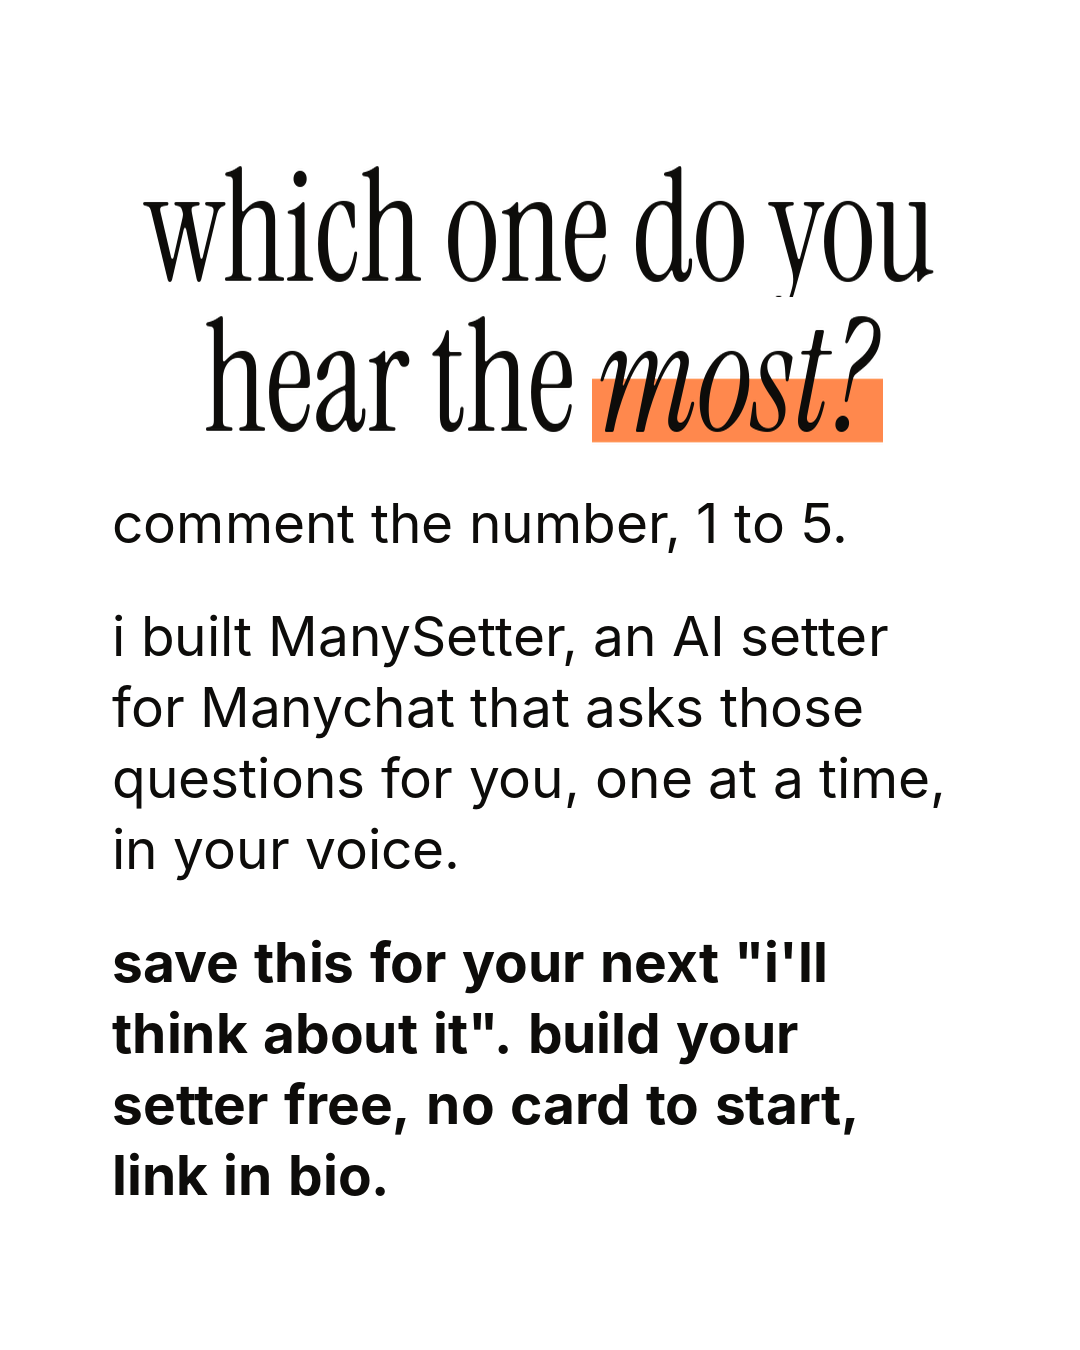
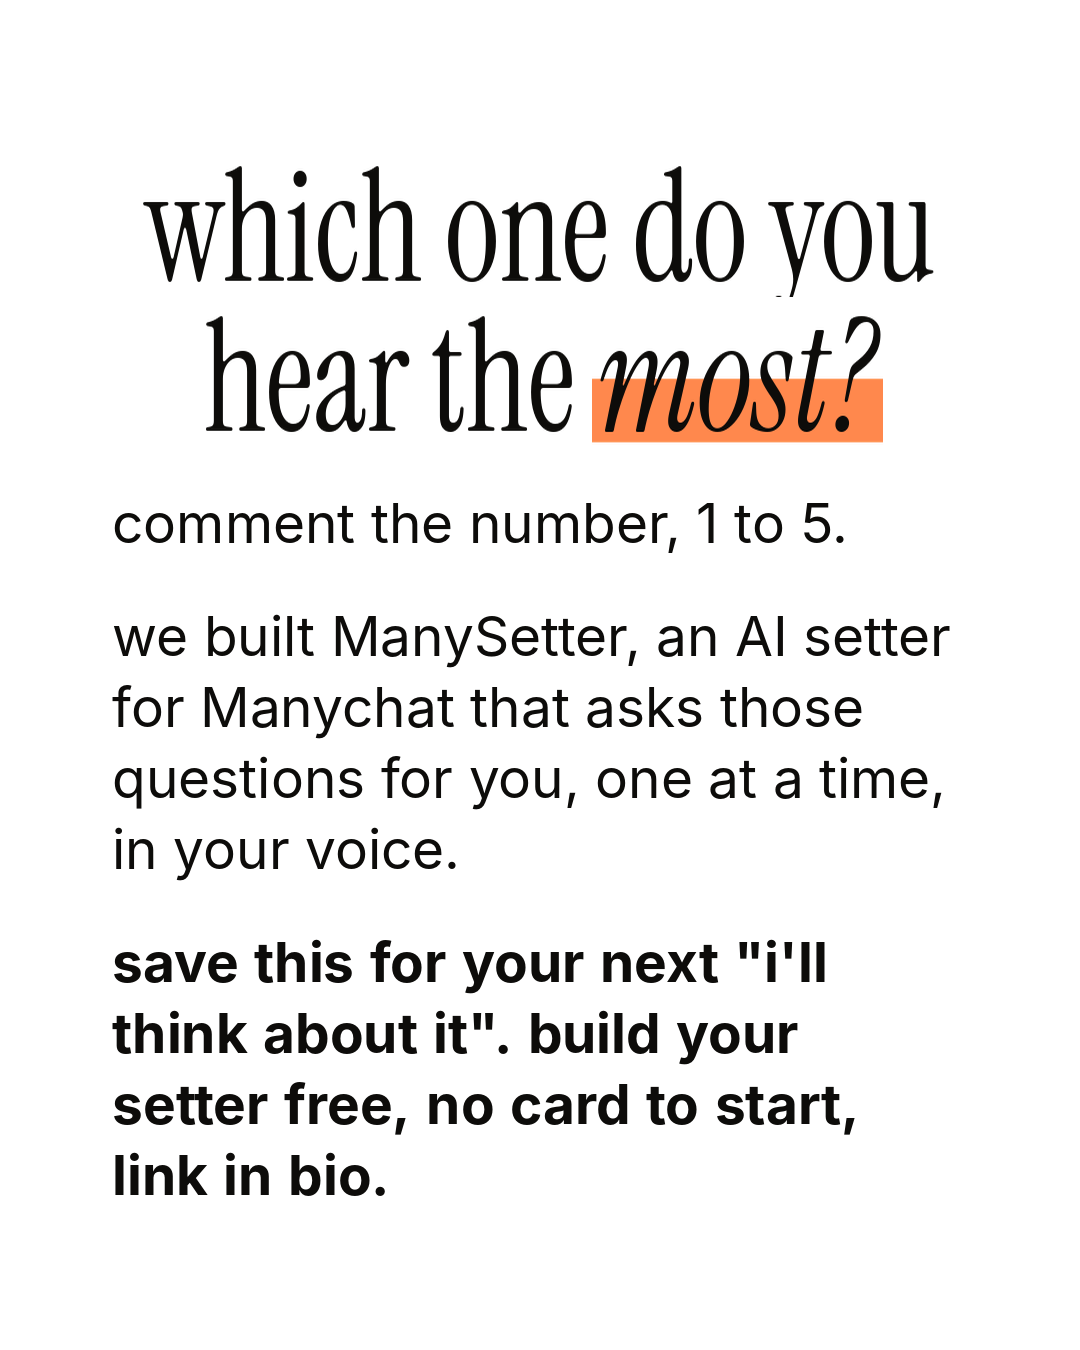
Grille de 12 posts sur @seth.manysetter (carrousel et reel un sur deux)
- règle datée : compte de publication, alternance carrousel/reel, ligne produit à la
  voix de la marque sur le compte de Seth, nom affiché « CEO » à corriger avant toute programmation
- 6 carrousels : « we built ManySetter » / « our AI setter » au lieu de « i built »

Changed region(s): [[0.0917, 0.4356, 0.8861, 0.4978]]

diff --git a/CONTENU/00_STRATEGIE/grille-2026-10-13_seth.md b/CONTENU/00_STRATEGIE/grille-2026-10-13_seth.md
@@ -1,0 +1,33 @@
+# Grille de publication : 13 au 18 octobre 2026
+
+> Compte : **@seth.manysetter** (Zernio `6acb7049fff57839fd7248c3`), décision du fondateur du 11/10/2026.
+> 12 posts : 6 carrousels (TOFU et MOFU en alternance) et 6 reels du fondateur, **un sur deux**. Deux posts par jour, fuseau `America/New_York` : carrousel à 12:00 pm ET, reel à 6:30 pm ET (guide expert, partie 9 : 1 carrousel par jour, puis 1 à 2 reels).
+> **Rien n'est programmé avant** : la validation de chaque post, les 6 reels reçus, et un nom de compte qui ne présente plus Seth comme CEO (règle du 11/10).
+
+| # | Date | Heure (ET) | Format | Étage | Post | Statut |
+| --- | --- | --- | --- | --- | --- | --- |
+| 1 | mar. 13/10 | 12:00 pm | carrousel | TOFU | `261010_CAR_S1_AV1_hormozi-vs-iman` | à valider |
+| 2 | mar. 13/10 | 6:30 pm | reel | | reel du fondateur n°1 | fichier attendu |
+| 3 | mer. 14/10 | 12:00 pm | carrousel | MOFU | `261010_CAR_S1_AV1_if-i-were-a-coach` | validé (10/10), retouché le 11/10 |
+| 4 | mer. 14/10 | 6:30 pm | reel | | reel du fondateur n°2 | fichier attendu |
+| 5 | jeu. 15/10 | 12:00 pm | carrousel | TOFU | `261010_CAR_S1_AV1_jenna-14m-dms` | à valider |
+| 6 | jeu. 15/10 | 6:30 pm | reel | | reel du fondateur n°3 | fichier attendu |
+| 7 | ven. 16/10 | 12:00 pm | carrousel | MOFU | `261010_CAR_S2_AV2_which-reply-books` | validé (10/10), retouché le 11/10 |
+| 8 | ven. 16/10 | 6:30 pm | reel | | reel du fondateur n°4 | fichier attendu |
+| 9 | sam. 17/10 | 12:00 pm | carrousel | TOFU | `261010_CAR_S2_AV2_ziglar-5-reasons` | à valider |
+| 10 | sam. 17/10 | 6:30 pm | reel | | reel du fondateur n°5 | fichier attendu |
+| 11 | dim. 18/10 | 12:00 pm | carrousel | MOFU | `261010_CAR_S1_AV1_things-coaches-do` | validé (10/10), retouché le 11/10 |
+| 12 | dim. 18/10 | 6:30 pm | reel | | reel du fondateur n°6 | fichier attendu |
+
+## Pourquoi ces 3 TOFU
+- `hormozi-vs-iman` ouvre la grille : le duel des deux plus gros noms, deux visages, une question qui fait commenter (« team Hormozi or team Iman? »).
+- `jenna-14m-dms` : un chiffre énorme et sourcé (son propre blog), le format le plus proche de notre produit (commentaire, puis DM).
+- `ziglar-5-reasons` plutôt que `unpopular-offer` : un 2e post avec le visage d'Hormozi dans la même semaine userait l'effet ; Ziglar parle du « I'll think about it », une douleur des verbatims (rd93, rd14).
+- En réserve : `unpopular-offer`, `harvard-60x`, `miner-comment-cold` (photo de Jeremy Miner en grand format attendue).
+
+## Retouches du 11/10 (contrôle qualité)
+- Publication sur @seth.manysetter : la ligne produit passe à la voix de la marque (« we built ManySetter », « our AI setter », « hi, this is ManySetter »), plus de « i built ManySetter ».
+- Phrases de 1 à 3 mots reliées par des virgules (« sound familiar? », « no cheating. », « be honest. », « ugh. »…).
+- CTA aligné sur l'offre réelle : « build your setter free, no card to start, link in bio » (dernière slide et légende).
+- `ziglar-5-reasons` : « Not affiliated with Zig Ziglar or his company. » ajouté à la légende.
+- Les 3 carrousels du lot 1 sont classés MOFU.

diff --git a/CONTENU/00_STRATEGIE/retours-validation.md b/CONTENU/00_STRATEGIE/retours-validation.md
@@ -163,3 +163,11 @@ Format d'une règle :
 - Règle : les reels BOFU sont **tournés par le fondateur** (sa vraie voix, son vrai visage) : ce sont les seuls où « I built ManySetter » se dit à l'oral, et ils ne demandent pas d'étiquette IA. Claude écrit leur légende (produit, CTA « Build my setter free, no card to start, link in bio ») et ne retouche la vidéo que sur demande.
 - Règle : la programmation passe par Zernio, **post par post validé**, sur le compte Instagram choisi par le fondateur, aux horaires du guide (carrousels 12:00 pm ET, reels 6:30 pm ET, fuseau `America/New_York`), un post par jour.
 - Constat du 11/10/2026 : Zernio ne voit plus qu'une chaîne YouTube (« manysetter ») ; **aucun compte Instagram connecté**. Rien ne peut être programmé sur Instagram avant que le fondateur reconnecte un compte.
+
+## 2026-10-11 · Compte de publication : @seth.manysetter, 6 reels
+- Retour : « Relié à mon Zernio, il y a mon nouveau compte @Seth.Manysetter. Donc on va publier là-dessus. Je vais te donner 6 reels, okay ? Tu vas pouvoir alterner un sur deux ? Redonne-moi le total. »
+- Décision : **on publie sur @seth.manysetter** (Zernio, compte Instagram `6acb7049fff57839fd7248c3`, en bonne santé le 11/10).
+- Règle : la grille **alterne carrousel et reel, un sur deux** ; les carrousels alternent eux-mêmes TOFU et MOFU. Première grille : 6 carrousels et 6 reels, soit 12 posts (`00_STRATEGIE/grille-2026-10-13.md`).
+- Règle (conséquence de la limite posée le 10/10) : sur ce compte, le « i » des carrousels se lit comme Seth. Les conseils restent à la 1re personne, mais **la ligne produit passe à la voix de la marque** : « we built ManySetter », « our AI setter », jamais « i built ManySetter ». La règle du 10/10 (« i built ManySetter ») ne vaut que pour un compte tenu par le fondateur à son nom.
+- Règle : quand le fondateur apparaît en personne dans un reel publié sur ce compte, la légende dit que c'est le fondateur qui parle, pour qu'on ne le confonde pas avec Seth.
+- Point ouvert (limite de Claude, signalée au fondateur) : le nom affiché du compte est « Seth | CEO of Manysetter™ ». Seth est un personnage généré : le présenter comme le CEO, c'est faire passer une personne qui n'existe pas pour le dirigeant réel de l'entreprise. Claude ne programme rien tant que le nom affiché présente Seth comme CEO ou fondateur ; il propose « Seth | ManySetter ».
